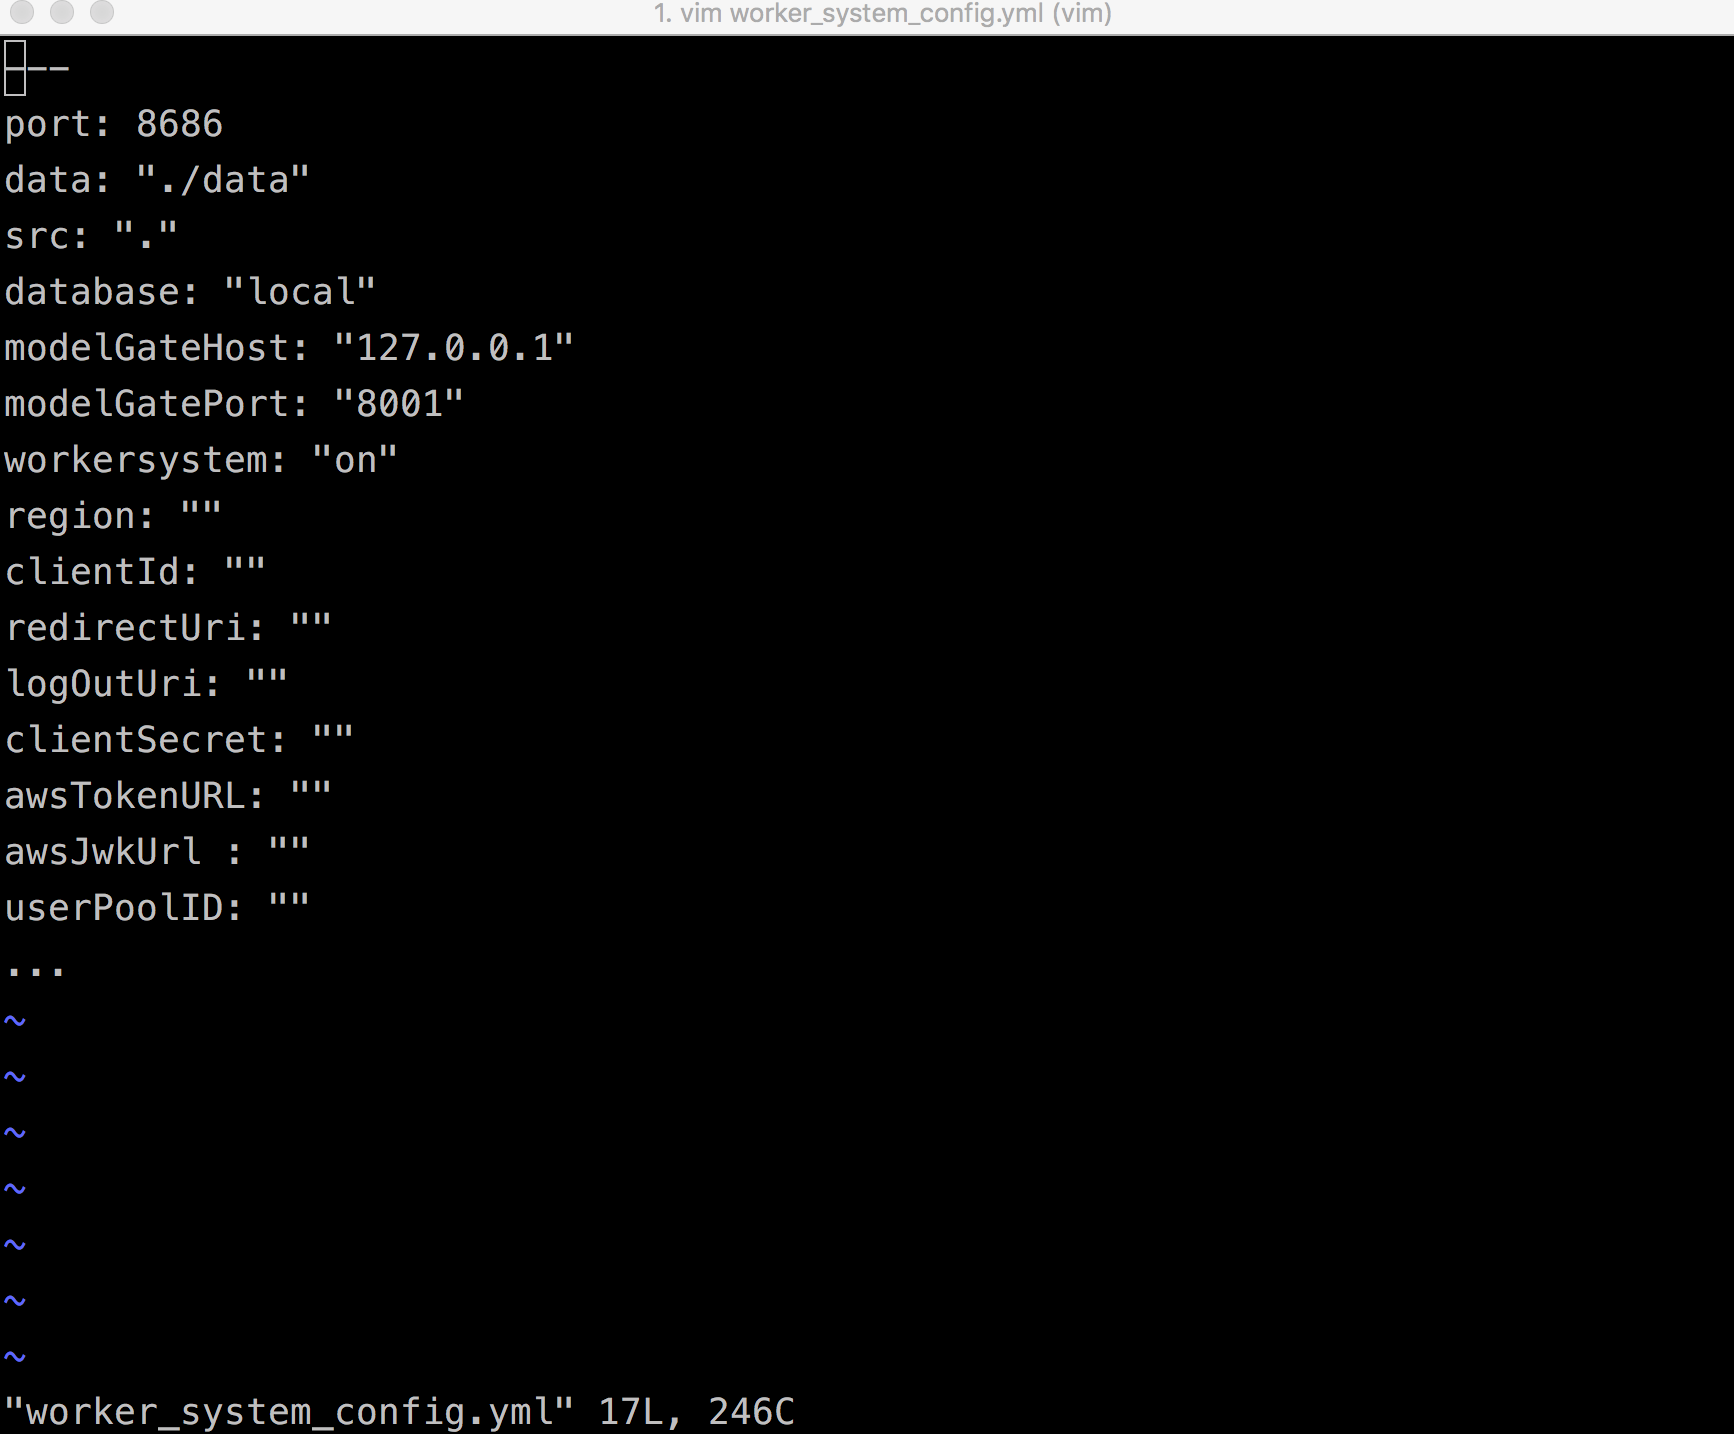
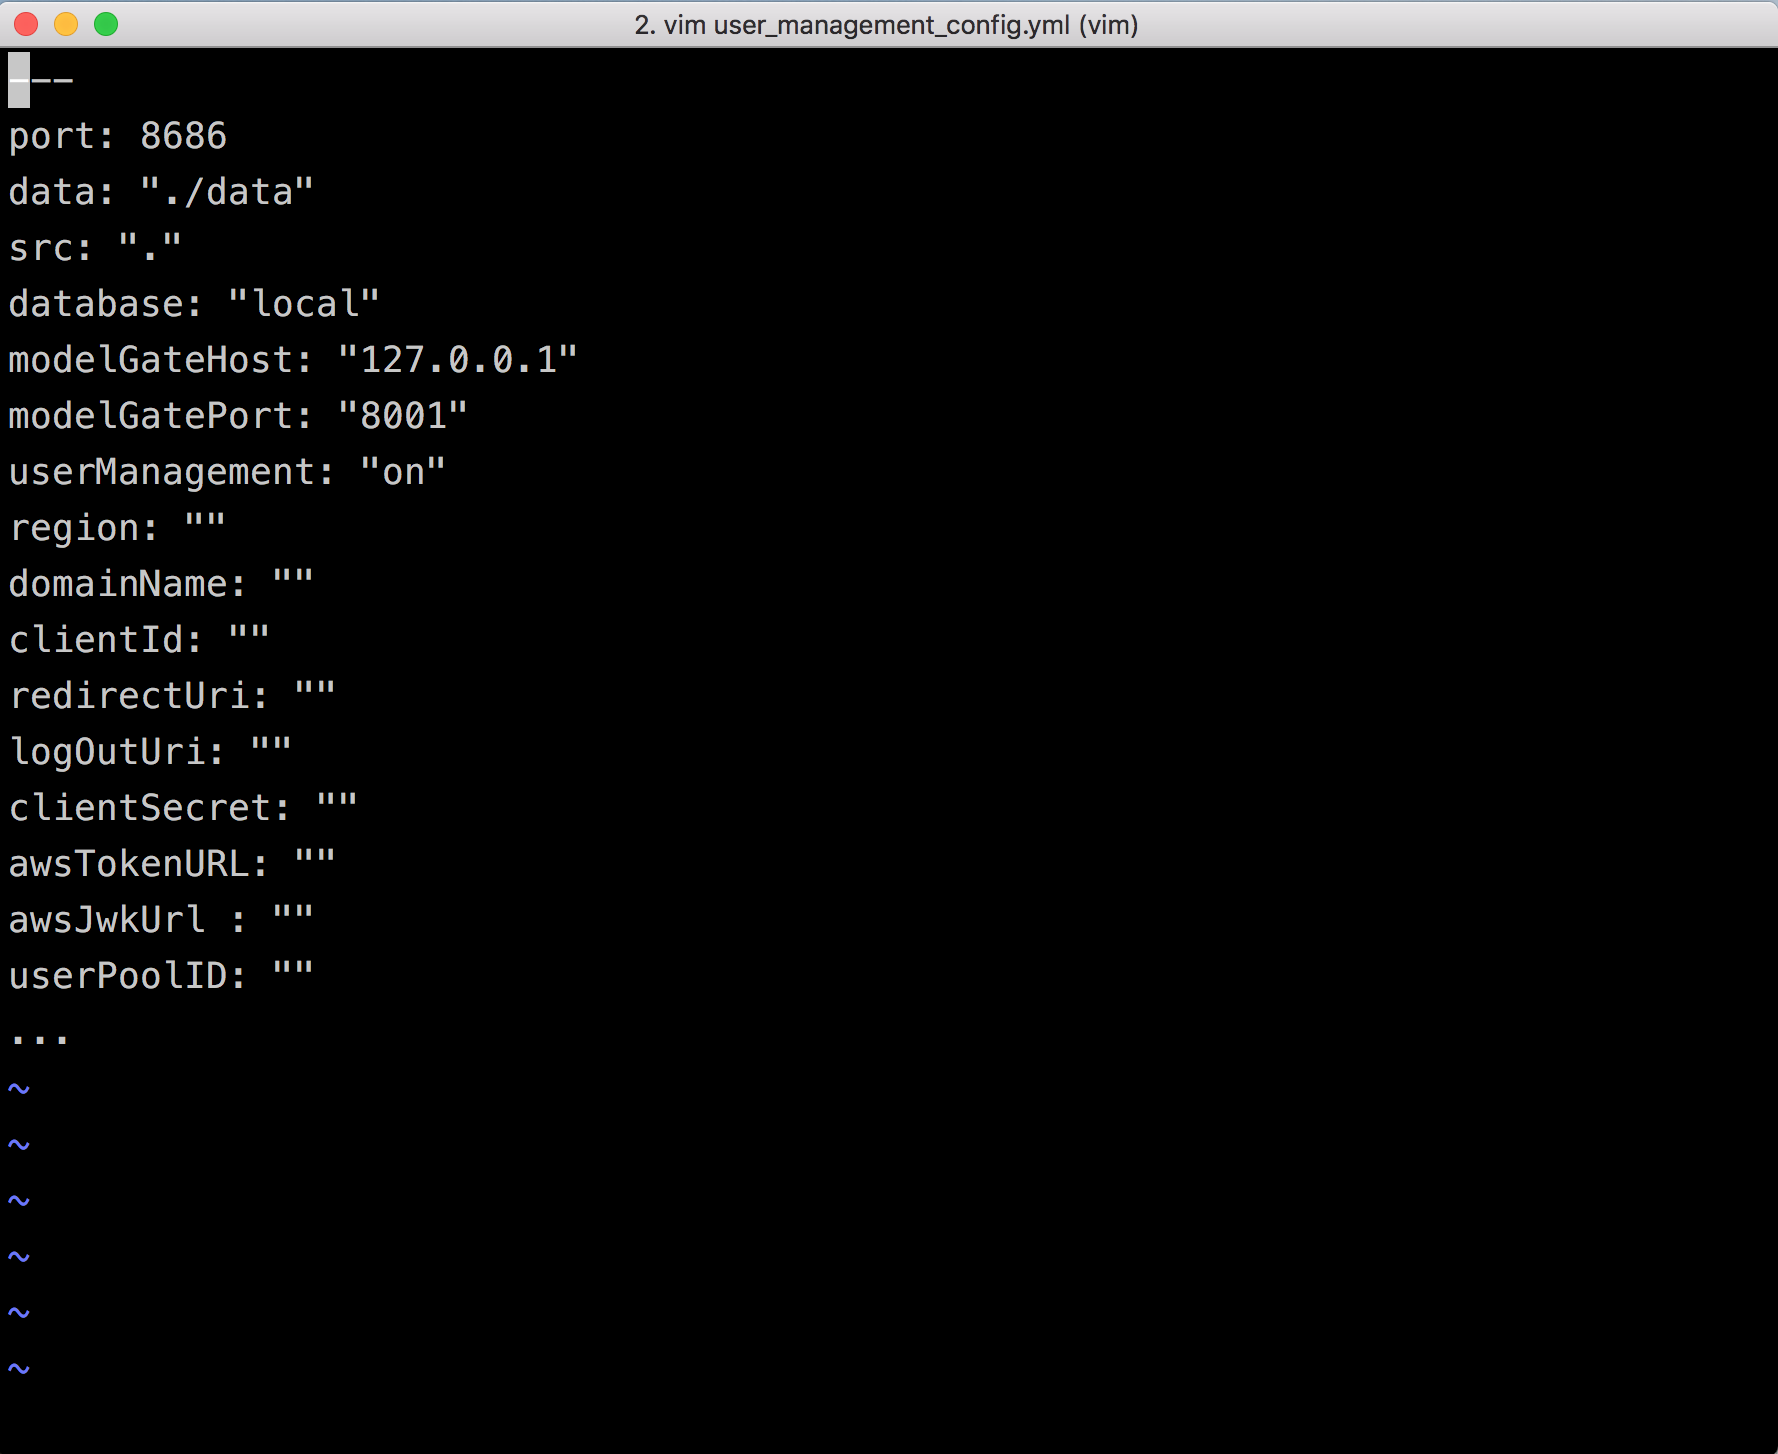
Usermanagement fix (#48)
* Add domainName doc

* add related png

Changed region(s): [[0.0, 0.0, 1.0, 0.675], [0.0, 0.9819, 0.3114, 1.0], [0.3426, 0.9819, 0.4671, 1.0]]

diff --git a/docs/user-management.rst b/docs/user-management.rst
@@ -38,14 +38,21 @@ First please log on to your AWS cognito console. We assume you have already set 
 
     Then please select the `General settings` on the sidebar, and look at the `Pool Id` again. The first several words of `Pool Id` is the `region`. The format of `region` is `"us-location-number"`, for example, `"us-east-1"` in the picture.
 
-3. `client id`
+3. `domainName`
+
+    .. image:: ../media/docs/user/domainName.png
+
+    Find the value of the domainName or set it by yourself if you haven't set it yet. And then on the right you will find the `Pool Id`. Copy the value and paste it into your `user_management_config.yml` to the corresponding variable as a string. 
+
+
+4. `client id`
 
     .. image:: ../media/docs/user/client_id.png
 
     Select `App clients` on the sidebar. Then copy the value of `App client id` to `clientId` in your `user_management_config.yml`.
 
 
-4. `client secret`
+5. `client secret`
 
     .. image:: ../media/docs/user/client_1.png
 
@@ -55,24 +62,24 @@ First please log on to your AWS cognito console. We assume you have already set 
 
     Now you can see more details of App clients. Copy the value of `app client secret` to `clientSecret` in your `user_management_config.yml`.
 
-5. `redirectUri` and `logOutUri`
+6. `redirectUri` and `logOutUri`
 
     .. image:: ../media/docs/user/callback_logout_url.png
 
     Select `App clients settings` on the sidebar. Then you will see `Callback URL(s)` and `Sign out URL(s)` on the righr. Copy the value of `Callback URL(s)` to `redirectUri`, and the value of `Sign out URL(s)` to `logOutUri` in your `user_management_config.yml`.
 
 
-6. `awsTokenURL`
+7. `awsTokenURL`
 
     .. image:: ../media/docs/user/aws_token_url.png
 
     Select `Domain name` on the sidebar. Copy the whole url under `Domain prefix` and add "/oauth2/token" as the postfix, so your `awsTokenUrl` will be in this form: `https://...amazoncognito.com/oauth2/token`. Fill `awsTokenURL` with this value in your `user_management_config.yml`.
 
-7. `awsJwkUrl`
+8. `awsJwkUrl`
 
     This value must be set to `"https://cognito-idp.%v.amazonaws.com/%v/.well-known/jwks.json"`. Since we are using AWS Cognito, this is the url that allows us to download all the public keys from AWS.
 
-8. `usermanagement`
+9. `usermanagement`
 
     At last, please make sure your user management is set to be 'on'.
 
